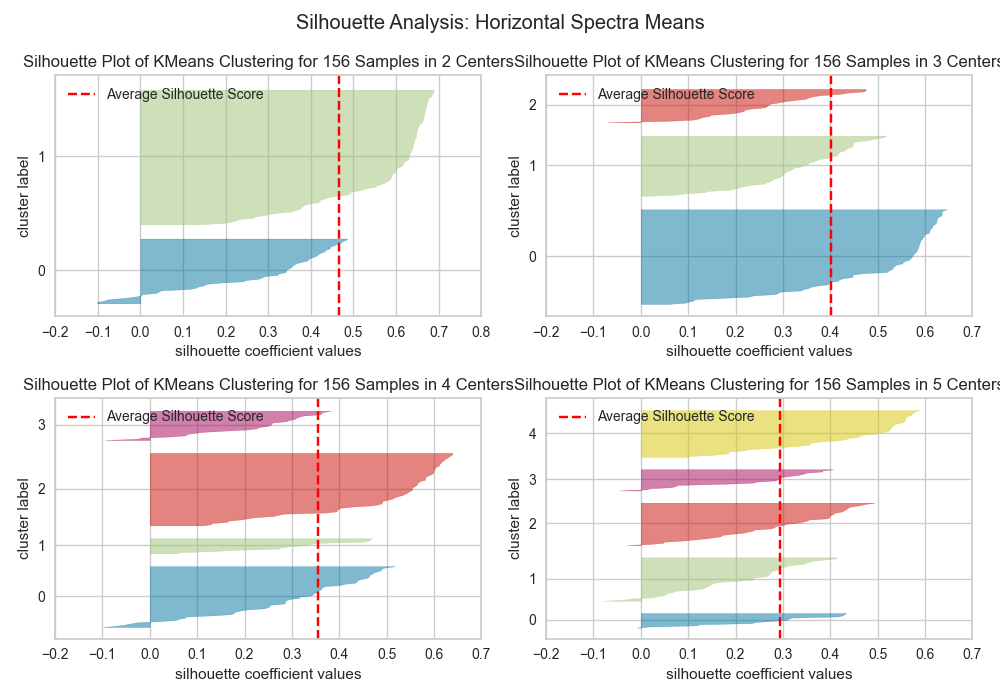
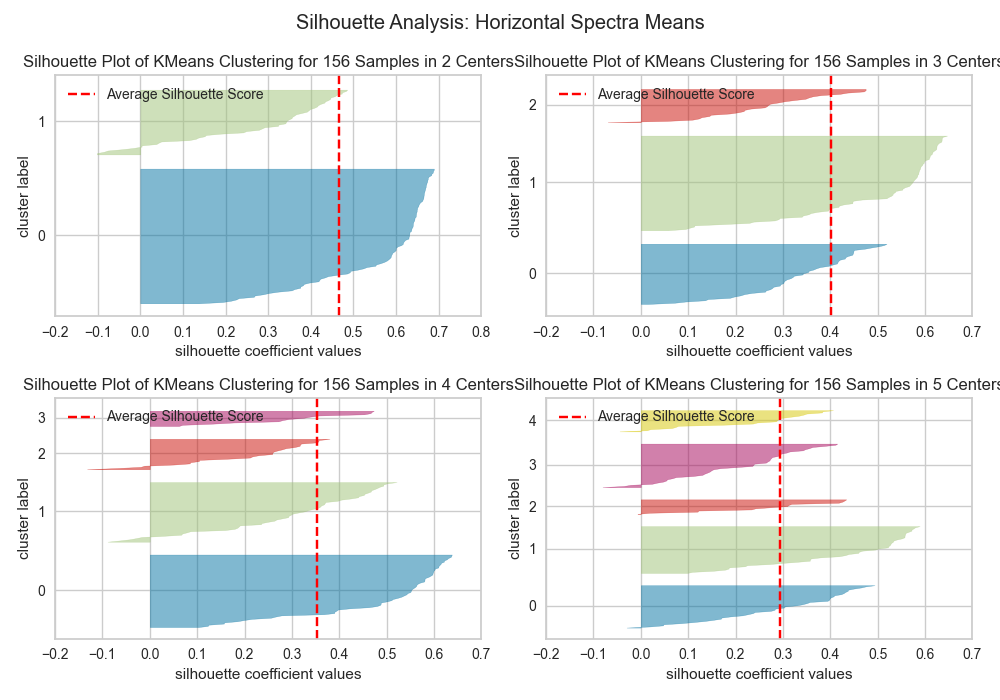
correcao do clustering
# O MinMaxScaler atua nas colunas. Aplicamos ANTES de transpor para garantir que
    # o espectro de cada estação seja normalizado (0 a 1) individualmente, capturando a 'forma' do sinal.

diff --git a/clustering.py b/clustering.py
@@ -40,7 +40,7 @@ def calculate_psa_means(df_psa_subset: pd.DataFrame):
         station = column.split('-')[0]
         stations.add(station)
 
-    stations_list = list(stations)
+    stations_list = sorted(list(stations))
     
     df_spectral_coefs_mean = pd.DataFrame(columns=stations_list)
     df_spectral_mean = pd.DataFrame(columns=stations_list)
@@ -100,12 +100,14 @@ def find_optimal_k(df_train_mean: pd.DataFrame, min_k: int = 2, max_k: int = 8, 
     Escalona os dados de treino, avalia os clusters usando a métrica Silhouette Score 
     (para valores entre min_k e max_k) e retorna o K que obteve a pontuação mais alta.
     """
-    # Transpor para que as amostras sejam as linhas (estações) e colunas sejam as features (períodos)
-    df_train_t = df_train_mean.T
-    
+    # O MinMaxScaler atua nas colunas. Aplicamos ANTES de transpor para garantir que 
+    # o espectro de cada estação seja normalizado (0 a 1) individualmente, capturando a 'forma' do sinal.
     scaler = MinMaxScaler()
-    X_train_scaled = scaler.fit_transform(df_train_t)
-    df_train_scaled_t = pd.DataFrame(X_train_scaled, index=df_train_t.index, columns=df_train_t.columns)
+    X_train_scaled = scaler.fit_transform(df_train_mean)
+    df_train_scaled = pd.DataFrame(X_train_scaled, index=df_train_mean.index, columns=df_train_mean.columns)
+    
+    # Agora transpomos para o formato exigido pelo Scikit-Learn (amostras x features)
+    df_train_scaled_t = df_train_scaled.T
     
     best_k = 2
     best_score = -1
@@ -126,22 +128,26 @@ def generate_clusters(df_train_mean: pd.DataFrame, df_test_mean: pd.DataFrame, k
     Aplica o dimensionamento (MinMaxScaler) e a clusterização (KMeans) replicando
     a lógica exata do script original. Retorna um dicionário unificado mapeando station_key -> cluster_id.
     """
-    # Transpor para que as amostras sejam as linhas (estações) e colunas sejam as features (períodos)
-    df_train_t = df_train_mean.T
-    df_test_t = df_test_mean.T
-    
     # --- Treino ---
+    # Normaliza o espectro de cada estação isoladamente para isolar o "shape" (forma)
     scaler = MinMaxScaler()
-    X_train_scaled = scaler.fit_transform(df_train_t)
-    df_train_scaled_t = pd.DataFrame(X_train_scaled, index=df_train_t.index, columns=df_train_t.columns)
+    X_train_scaled = scaler.fit_transform(df_train_mean)
+    df_train_scaled = pd.DataFrame(X_train_scaled, index=df_train_mean.index, columns=df_train_mean.columns)
+    
+    df_train_scaled_t = df_train_scaled.T
     
     kmeans = KMeans(n_clusters=k, random_state=random_state, n_init=10)
     df_train_scaled_t['Cluster'] = kmeans.fit_predict(df_train_scaled_t)
     
     # --- Teste ---
-    # Aplicar apenas o transform() no conjunto de teste para evitar vazamento de dados (Data Leakage)
-    X_test_scaled = scaler.transform(df_test_t)
-    df_test_scaled_t = pd.DataFrame(X_test_scaled, index=df_test_t.index, columns=df_test_t.columns)
+    # Como as estações de teste são diferentes do treino, precisamos instanciar um novo scaler.
+    # Isso garante que cada nova estação seja escalada pelo seu próprio Max/Min espectral.
+    # Como não usamos estatísticas de outras amostras/estações, isso não causa vazamento de dados (leakage).
+    scaler_test = MinMaxScaler()
+    X_test_scaled = scaler_test.fit_transform(df_test_mean)
+    df_test_scaled = pd.DataFrame(X_test_scaled, index=df_test_mean.index, columns=df_test_mean.columns)
+    
+    df_test_scaled_t = df_test_scaled.T
     
     df_test_scaled_t['Cluster'] = kmeans.predict(df_test_scaled_t)
     

diff --git a/main.py b/main.py
@@ -39,6 +39,9 @@ def set_global_seeds(seed: int):
     random.seed(seed)
     np.random.seed(seed)
     tf.random.set_seed(seed)
+    # Força determinismo absoluto nas operações em C++ do Keras e TensorFlow
+    tf.keras.utils.set_random_seed(seed)
+    tf.config.experimental.enable_op_determinism()
 
 def main():
     set_global_seeds(config.RANDOM_STATE)
@@ -136,7 +139,9 @@ def main():
         df_train_clean, lost_train = add_clusters(df_train_clean, clusters_dict, cluster_col)
         df_test, lost_test = add_clusters(df_test, clusters_dict, cluster_col)
         if lost_train or lost_test:
-            print(f"        * Aviso: {len(lost_train)} estações sem cluster no treino e {len(lost_test)} no teste.")
+            print(f"        * Aviso: {len(lost_train)} estações órfãs (sem cluster) no treino e {len(lost_test)} no teste.")
+            if lost_train: print(f"          - Órfãs no Treino: {lost_train}")
+            if lost_test: print(f"          - Órfãs no Teste: {lost_test}")
         
     print("   -> Clusterização concluída. Datasets de treino e teste agora possuem as features de cluster.")
 

diff --git a/run_tuning.py b/run_tuning.py
@@ -87,8 +87,13 @@ def prepare_data(cluster_col=None):
             train_means[mean_key], test_means[mean_key], k=k_val, random_state=config.RANDOM_STATE
         )
         df_train_clean, lost_train = add_clusters(df_train_clean, clusters_dict, cluster_col)
-        df_test, _ = add_clusters(df_test, clusters_dict, cluster_col)
+        df_test, lost_test = add_clusters(df_test, clusters_dict, cluster_col)
         
+        if lost_train or lost_test:
+            print(f"Aviso: {len(lost_train)} estações órfãs (sem cluster) no treino e {len(lost_test)} no teste para {cluster_col}.")
+            if lost_train: print(f"  - Órfãs no Treino (serão removidas): {lost_train}")
+            if lost_test: print(f"  - Órfãs no Teste: {lost_test}")
+
         if lost_train:
             df_train_clean = df_train_clean.dropna(subset=[cluster_col])
             

diff --git a/modeling.py b/modeling.py
@@ -275,7 +275,7 @@ def tune_xgboost(X_train: pd.DataFrame, y_train: pd.Series, groups: pd.Series,
         # Adicionamos 10% a mais (multiplicando por 1.1) porque no main.py 
         # o modelo final vai treinar com 100% dos dados (e não apenas os 80% do fold).
         # Logo, ele precisa de ligeiramente mais árvores para convergir.
-        trial.set_user_attr("optimal_trees", int(np.mean(best_iterations) * 1.1))
+        # trial.set_user_attr("optimal_trees", int(np.mean(best_iterations) * 1.1))
         return -np.mean(rmses)
 
     # Adiciona Sampler determinístico e Pruner (ignora as primeiras 5 trials do estudo antes de começar a podar)

diff --git a/README.md b/README.md
@@ -4,3 +4,10 @@ This is the source code for the paper: "Refining PGA Prediction Models through P
 pip install -r requirements.txt
 
 python -m pipreqs.pipreqs ./ --force
+
+
+python run_cluster_analysis.py
+
+python run_tuning.py --model rf --cluster clusters_spectral_coefs
+
+python .\main.py
